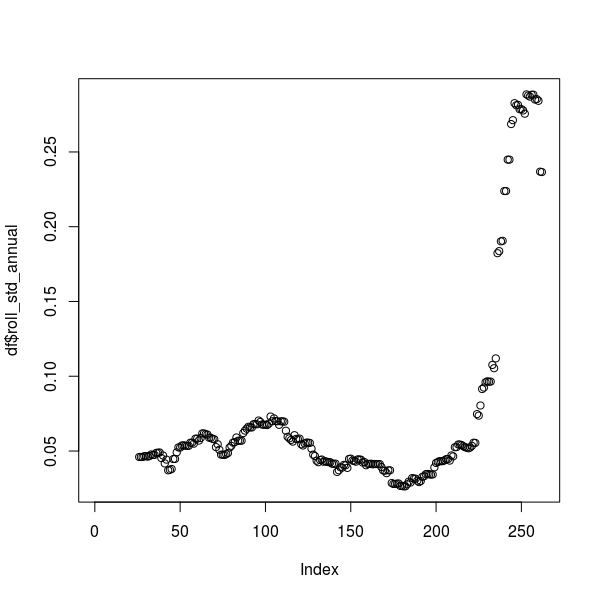
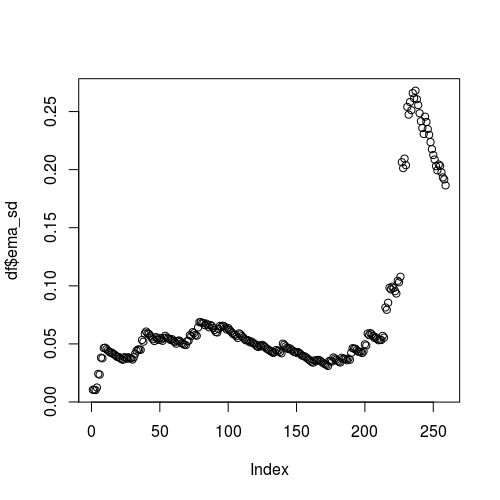
add perf

Changed region(s): [[0.0, 0.12, 0.96, 0.9], [0.48, 0.93, 0.57, 0.96], [0.81, 0.39, 0.84, 0.45]]

diff --git a/post/volatility-targeting/index.html b/post/volatility-targeting/index.html
@@ -386,16 +386,14 @@
 <ul>
 <li>Obtain my current positions from googlesheet</li>
 <li>Compute my portfolio value converted into SGD now and historically based on current positions</li>
-<li>Compute annual standard deviation of my portfolio based on past 25 days daily returns. Annual standard deviation of returns of portfolio = Daily standard deviation of returns of portfolio * sqrt(252)</li>
+<li>Compute annual standard deviation (normal and exponential version shared by Robert Carver) of my portfolio based on past 36 days daily returns. Annual standard deviation of returns of portfolio = Daily standard deviation of returns of portfolio * sqrt(252)</li>
 <li>Compute beta of my portfolio against VT, global benchmark (at the moment around 0.2)</li>
 <li>Compute &lsquo;imperfect&rsquo; hedge required through beta to achieve volatility target of 15%</li>
 <li>Pushes a notification to me on how much additional/ lesser hedge is required</li>
 </ul>
 
-<pre><code>#Note: Volatility targeting
-
-#Initialization
-sapply(c(&quot;ggplot2&quot;, &quot;plotly&quot;, &quot;quantmod&quot;, &quot;pushoverr&quot;, &quot;zoo&quot;, &quot;dplyr&quot;, &quot;roll&quot;, &quot;PerformanceAnalytics&quot;, &quot;pushoverr&quot;, &quot;googlesheets&quot;), require, character.only = T)
+<pre><code>#Initialization
+sapply(c(&quot;ggplot2&quot;, &quot;plotly&quot;, &quot;quantmod&quot;, &quot;pushoverr&quot;, &quot;zoo&quot;, &quot;dplyr&quot;, &quot;roll&quot;, &quot;PerformanceAnalytics&quot;, &quot;pushoverr&quot;, &quot;googlesheets&quot;, &quot;pracma&quot;), require, character.only = T)
 source('util/extract_stock_prices.R')
 
 rsd_file = Sys.getenv(&quot;GOOGLESHEET&quot;)
@@ -454,9 +452,17 @@ return(df_sub)
 
 ##########################Format_portfolio##########################
 # df_tickers = data.frame(tickers = c(&quot;TLT&quot;, &quot;IEF&quot;, &quot;SPY&quot;, ))
-df_tickers = read.csv(&quot;positions.csv&quot;, stringsAsFactors = F) 
+df_tickers &lt;- gs_read(ss=dat, ws = &quot;investment_live&quot;, skip=0)
+
+# df_tickers = read.csv(&quot;positions.csv&quot;, stringsAsFactors = F) 
 df_tickers = filter(df_tickers, num_units &gt; 0)
 df_tickers = subset(df_tickers, df_tickers$Ticker != &quot;CNYB.AS&quot;)
+
+current_value = sum(df_tickers$value)
+
+df_tickers = df_tickers[, 1:5]
+df_tickers[which(df_tickers$exch_rate_type == &quot;SGDHKD=X&quot;), 5] = &quot;HKDSGD=X&quot;
+
 
 portfolio_format = function(df_tickers, last_date){
 
@@ -492,10 +498,15 @@ portfolio$portfolio_value_adj2 = ifelse((portfolio$portfolio_value_adj  &gt; por
                                              NA,
                                              portfolio$portfolio_value_adj)
 portfolio$portfolio_value_adj2 = na.locf(portfolio$portfolio_value_adj2)
+
+if(!is.na(current_value)){
+  portfolio$portfolio_value_adj2[nrow(portfolio)] = current_value
+}
+
 portfolio$returns = ROC(portfolio$portfolio_value_adj2) 
 portfolio$returns_100 = portfolio$returns * 100
 
-portfolio$roll_std = roll_sd(portfolio$returns, 25)
+portfolio$roll_std = roll_sd(portfolio$returns, 30)
 portfolio$roll_std_annual = portfolio$roll_std * (252 ^ 0.5)
 
 return(portfolio)
@@ -503,11 +514,11 @@ return(portfolio)
 }
 
 
-df = portfolio_format(df_tickers, last_date = &quot;2019-04-13&quot;)
+df = portfolio_format(df_tickers, last_date = (Sys.Date()-365))
 df$roll_std_annnual = as.numeric(df$roll_std_annual)
 plot(df$roll_std_annual)
 
-reduce_times = leverage *df$roll_std_annual[nrow(df)]/ 0.15
+reduce_times = leverage *df$roll_std_annual[nrow(df) - 0]/ 0.15
 
 #Consolidate portfolio and find beta aginst VT and SPY
 #Portfolio value / number of times to reduce
@@ -533,17 +544,31 @@ return(as.numeric(reg$coefficients[2]))
 
 beta = find_beta(df, benchmark)
 
+##########################EMA of volatility######################################3
+df$square_returns = df$returns ^ 2
+df$square_returns[1] = df$square_returns[2]
+df$ema_vol =  movavg(df$square_returns, 36, type = &quot;e&quot;)
+df$ema_sd = df$ema_vol ^ 0.5 * (252 ^ 0.5)
+
+reduce_times_exp = leverage * df$ema_sd[nrow(df) - 0]/ 0.15
+
 
 ##########################Find hedge required to target risk######################################3
-hedge = (df$portfolio_value_adj2[nrow(df)] - (df$portfolio_value_adj2[nrow(df)]/ reduce_times)) * beta
+hedge = (df$portfolio_value_adj2[nrow(df)] - (df$portfolio_value_adj2[nrow(df)]/ reduce_times_exp)) * beta
+hedge = round(hedge, 0)
 
+##########################Pushing notifications to inform how much hedge is required######################################
+msg = paste0(&quot;You should hedge &quot;, hedge, 
+             &quot; Current hedge value is &quot;, current_hedge_value,
+             &quot; Additional hedge required &quot;, (hedge - current_hedge_value)
+)
 
-##########################Pushing notifications to inform how much hedge is required######################################3
-pushover(message = paste0(&quot;You should hedge &quot;, hedge, 
-                          &quot; Current hedge value is &quot;, current_hedge_value,
-                          &quot; Additional hedge required &quot;, (hedge - current_hedge_value)
-                          ), 
+print(msg)
+
+pushover(message = msg, 
          user = Sys.getenv(&quot;pushover_user&quot;), app = Sys.getenv(&quot;pushover_app&quot;))
+
+plot(df$ema_sd)
 
 </code></pre>
 
@@ -578,9 +603,9 @@ pushover(message = paste0(&quot;You should hedge &quot;, hedge,
     
     <li><a href="/post/mapreduce-in-java/">Mapreduce using Java</a></li>
     
-    <li><a href="/post/hidden_markov_model/">Regime detection through hidden markov model</a></li>
-    
     <li><a href="/project/hidden_markov_model/">Regime detection through hidden markov model</a></li>
+    
+    <li><a href="/post/hidden_markov_model/">Regime detection through hidden markov model</a></li>
     
     <li><a href="/post/embedding-d3-interactive-charts-part2/">Embedding D3 interactive charts part 2</a></li>
     
